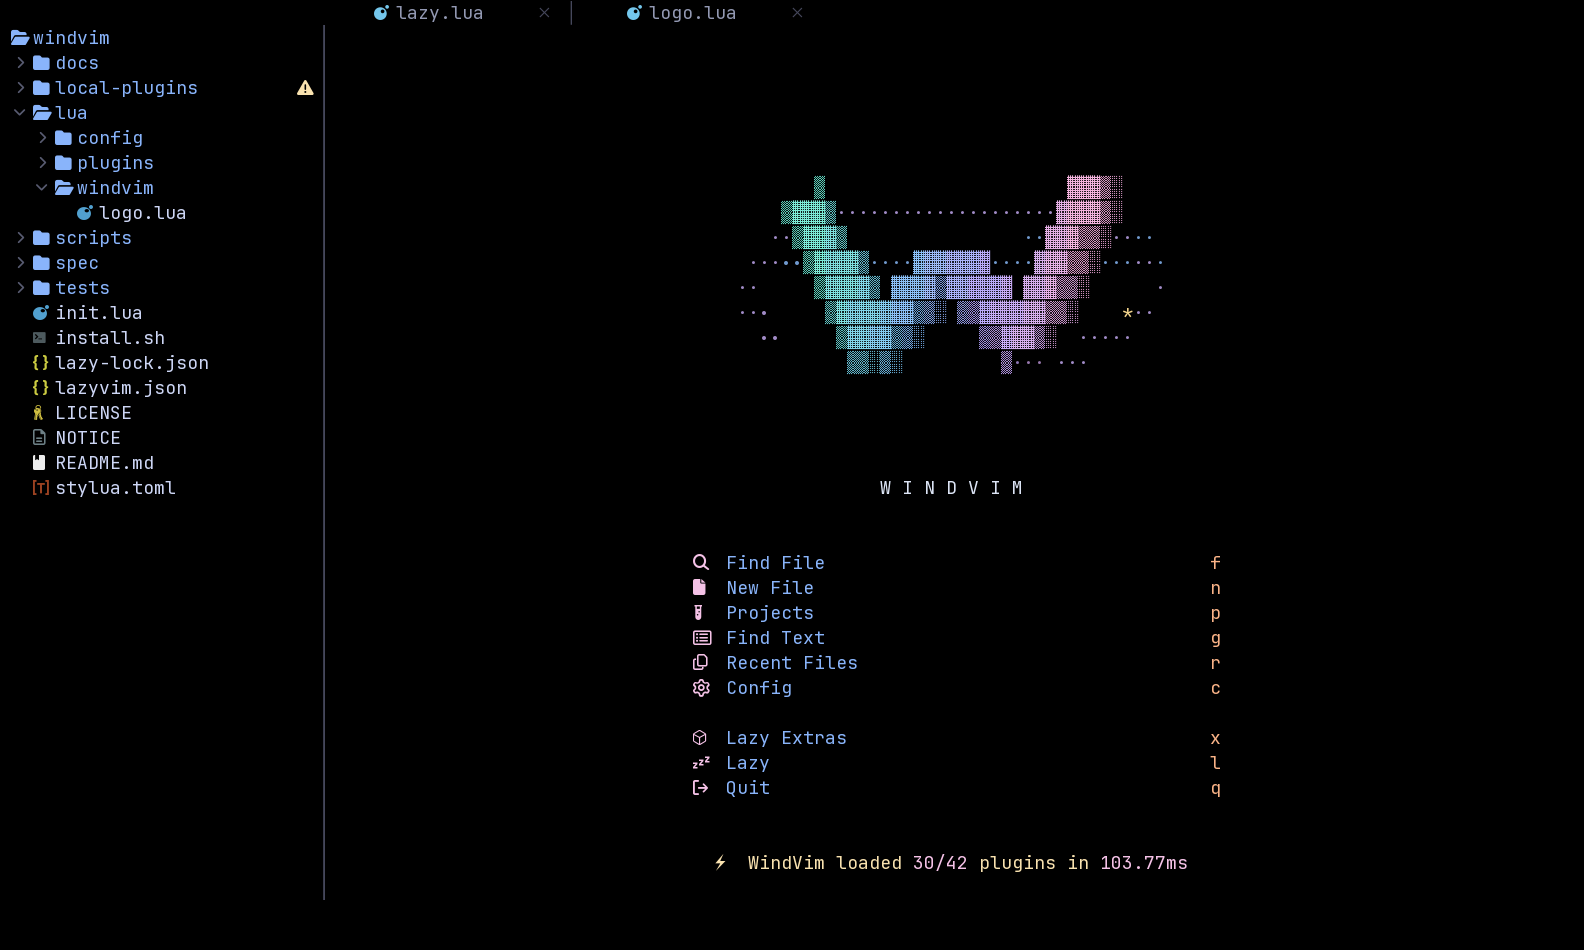
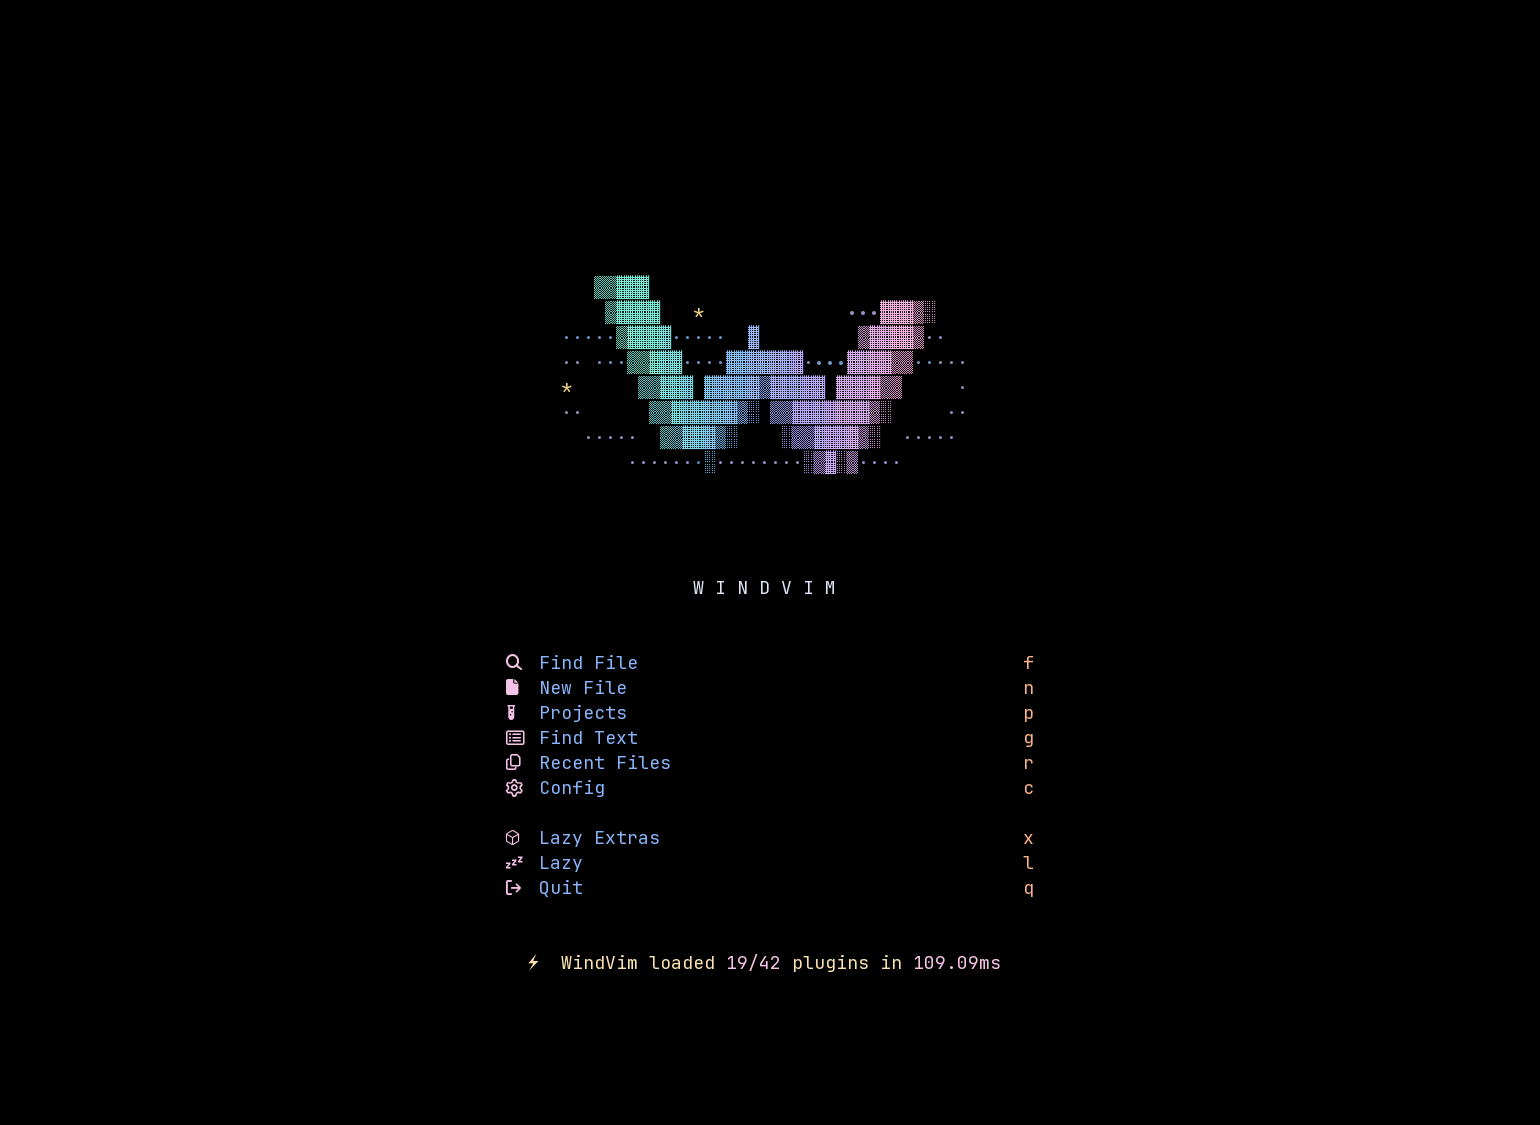
docs(demo): 恢复不带目录树的独立首页展示

diff --git a/spec/06-modules/presentation/spec.md b/spec/06-modules/presentation/spec.md
@@ -51,3 +51,10 @@
 - 验证：项目演示脚本返回 PASS，实际查看目录树与彩色启动页、源码编辑、中文快捷键、Lua 代码搜索预览；六张静态图与 48 帧动图已更新。图片尺寸为 1584 × 950，全宽展示。
 - 新增 `scripts/screenshots.py` / `scripts/screenshots.lua`，在临时克隆与隔离配置中复现同一项目场景；按真实屏幕字符与高亮属性捕获。逐帧确认与字形缓存保证录制完成并避免旧图片残留；录制中只在临时进程关闭通知浮层。
 - 原汉化 UI 测试仍返回 PASS；27 个 Lua 文件 / 3 个 JSON、Python 编译及 Markdown 本地引用检查通过；生产配置文件无改动，本机配置和 dotfiles 摘要一致。
+
+## 独立首页保留
+
+- 首页恢复彩色标识版本的原始中英文截图与 48 帧动图，不带左侧目录树；不修改启动页实现。
+- 项目目录树仅用于源码编辑、快捷键菜单与文件搜索演示，保留这些已录制的图片。
+- 录制脚本先捕获初始独立启动页，再打开项目文件和目录树，避免重建启动页。
+- 验证：调整后的实际 UI 录制返回 PASS；最终首页素材与 `9600ec6` 逐字节一致，其他项目演示图片与本轮前一致。27 个 Lua / 3 个 JSON 检查及本地 Markdown 引用通过；本机配置与 dotfiles 模块的文件摘要（排除 Git 元数据）一致。

diff --git a/docs/GALLERY.md b/docs/GALLERY.md
@@ -2,11 +2,11 @@
 
 [返回首页](../README.md)
 
-以 WindVim 自身的源码项目作为演示，展示目录浏览、代码编辑、中文菜单和文件搜索。以下画面均来自实际 Neovim 界面。
+启动页独立展示彩色动态标识；代码编辑、中文菜单和文件搜索以 WindVim 自身的源码项目作为演示。以下画面均来自实际 Neovim 界面。
 
-## 项目目录与动态启动页
+## 动态启动页
 
-![项目目录与动态启动页](screenshots/dashboard-animation.gif)
+![WindVim 动态启动页](screenshots/dashboard-animation.gif)
 
 ## 项目代码编辑
 
@@ -32,6 +32,6 @@
 
 ## 英文界面
 
-同一个项目工作区可以切换为英文。
+启动页和常用界面可以切换为英文。
 
-![英文项目启动页](screenshots/dashboard-en.png)
+![英文启动页](screenshots/dashboard-en.png)

diff --git a/README.md b/README.md
@@ -27,7 +27,7 @@ WindVim 是基于 [LazyVim](https://github.com/LazyVim/LazyVim) 的个人定制 
 - **完整的视觉定制**：Catppuccin 透明主题、Markdown 渲染与专属动态启动页，彩色 W 标识搭配有深度的风环与流动粒子。
 - **配置独立、方便修改**：安装时保护已有目录，显式覆盖会先备份；主题、快捷键与本地汉化层都可单独调整。
 
-![项目目录与动态启动页](docs/screenshots/dashboard-animation.gif)
+![WindVim 动态启动页](docs/screenshots/dashboard-animation.gif)
 
 打开项目后，可以在目录树、代码编辑和搜索预览之间切换：
 

diff --git a/spec/README.md b/spec/README.md
@@ -1,6 +1,6 @@
 # WindVim 开发规格
 
-当前状态：以 WindVim 项目展示目录树、彩色动态启动页、代码编辑与搜索预览，README 和图库改为全宽截图；录制与回归检查通过，保留本机配置和 dotfiles。
+当前状态：独立展示不带目录树的彩色动态启动页，代码编辑与搜索预览保留 WindVim 项目目录树，README 和图库改为全宽截图；录制与回归检查通过，保留本机配置和 dotfiles。
 
 - [原始输入](01-inputs/user-prompts.md)
 - [项目标识与 README](06-modules/presentation/spec.md)

diff --git a/spec/01-inputs/user-prompts.md b/spec/01-inputs/user-prompts.md
@@ -55,3 +55,7 @@
 > [Image #1]演示的截图调整一下，现在不太好看，可以打开一个项目，例如这样做演示[Image #2]
 
 附件：`/tmp/codex-clipboard-I0jGIa.png`（当前并排预览）；`/tmp/codex-clipboard-X5TVbC.png`（项目目录树与启动页示例）。
+
+## 2026-10-22 · 保留独立首页
+
+> 首页的不要改，原来的首页的不要左侧的目录树
